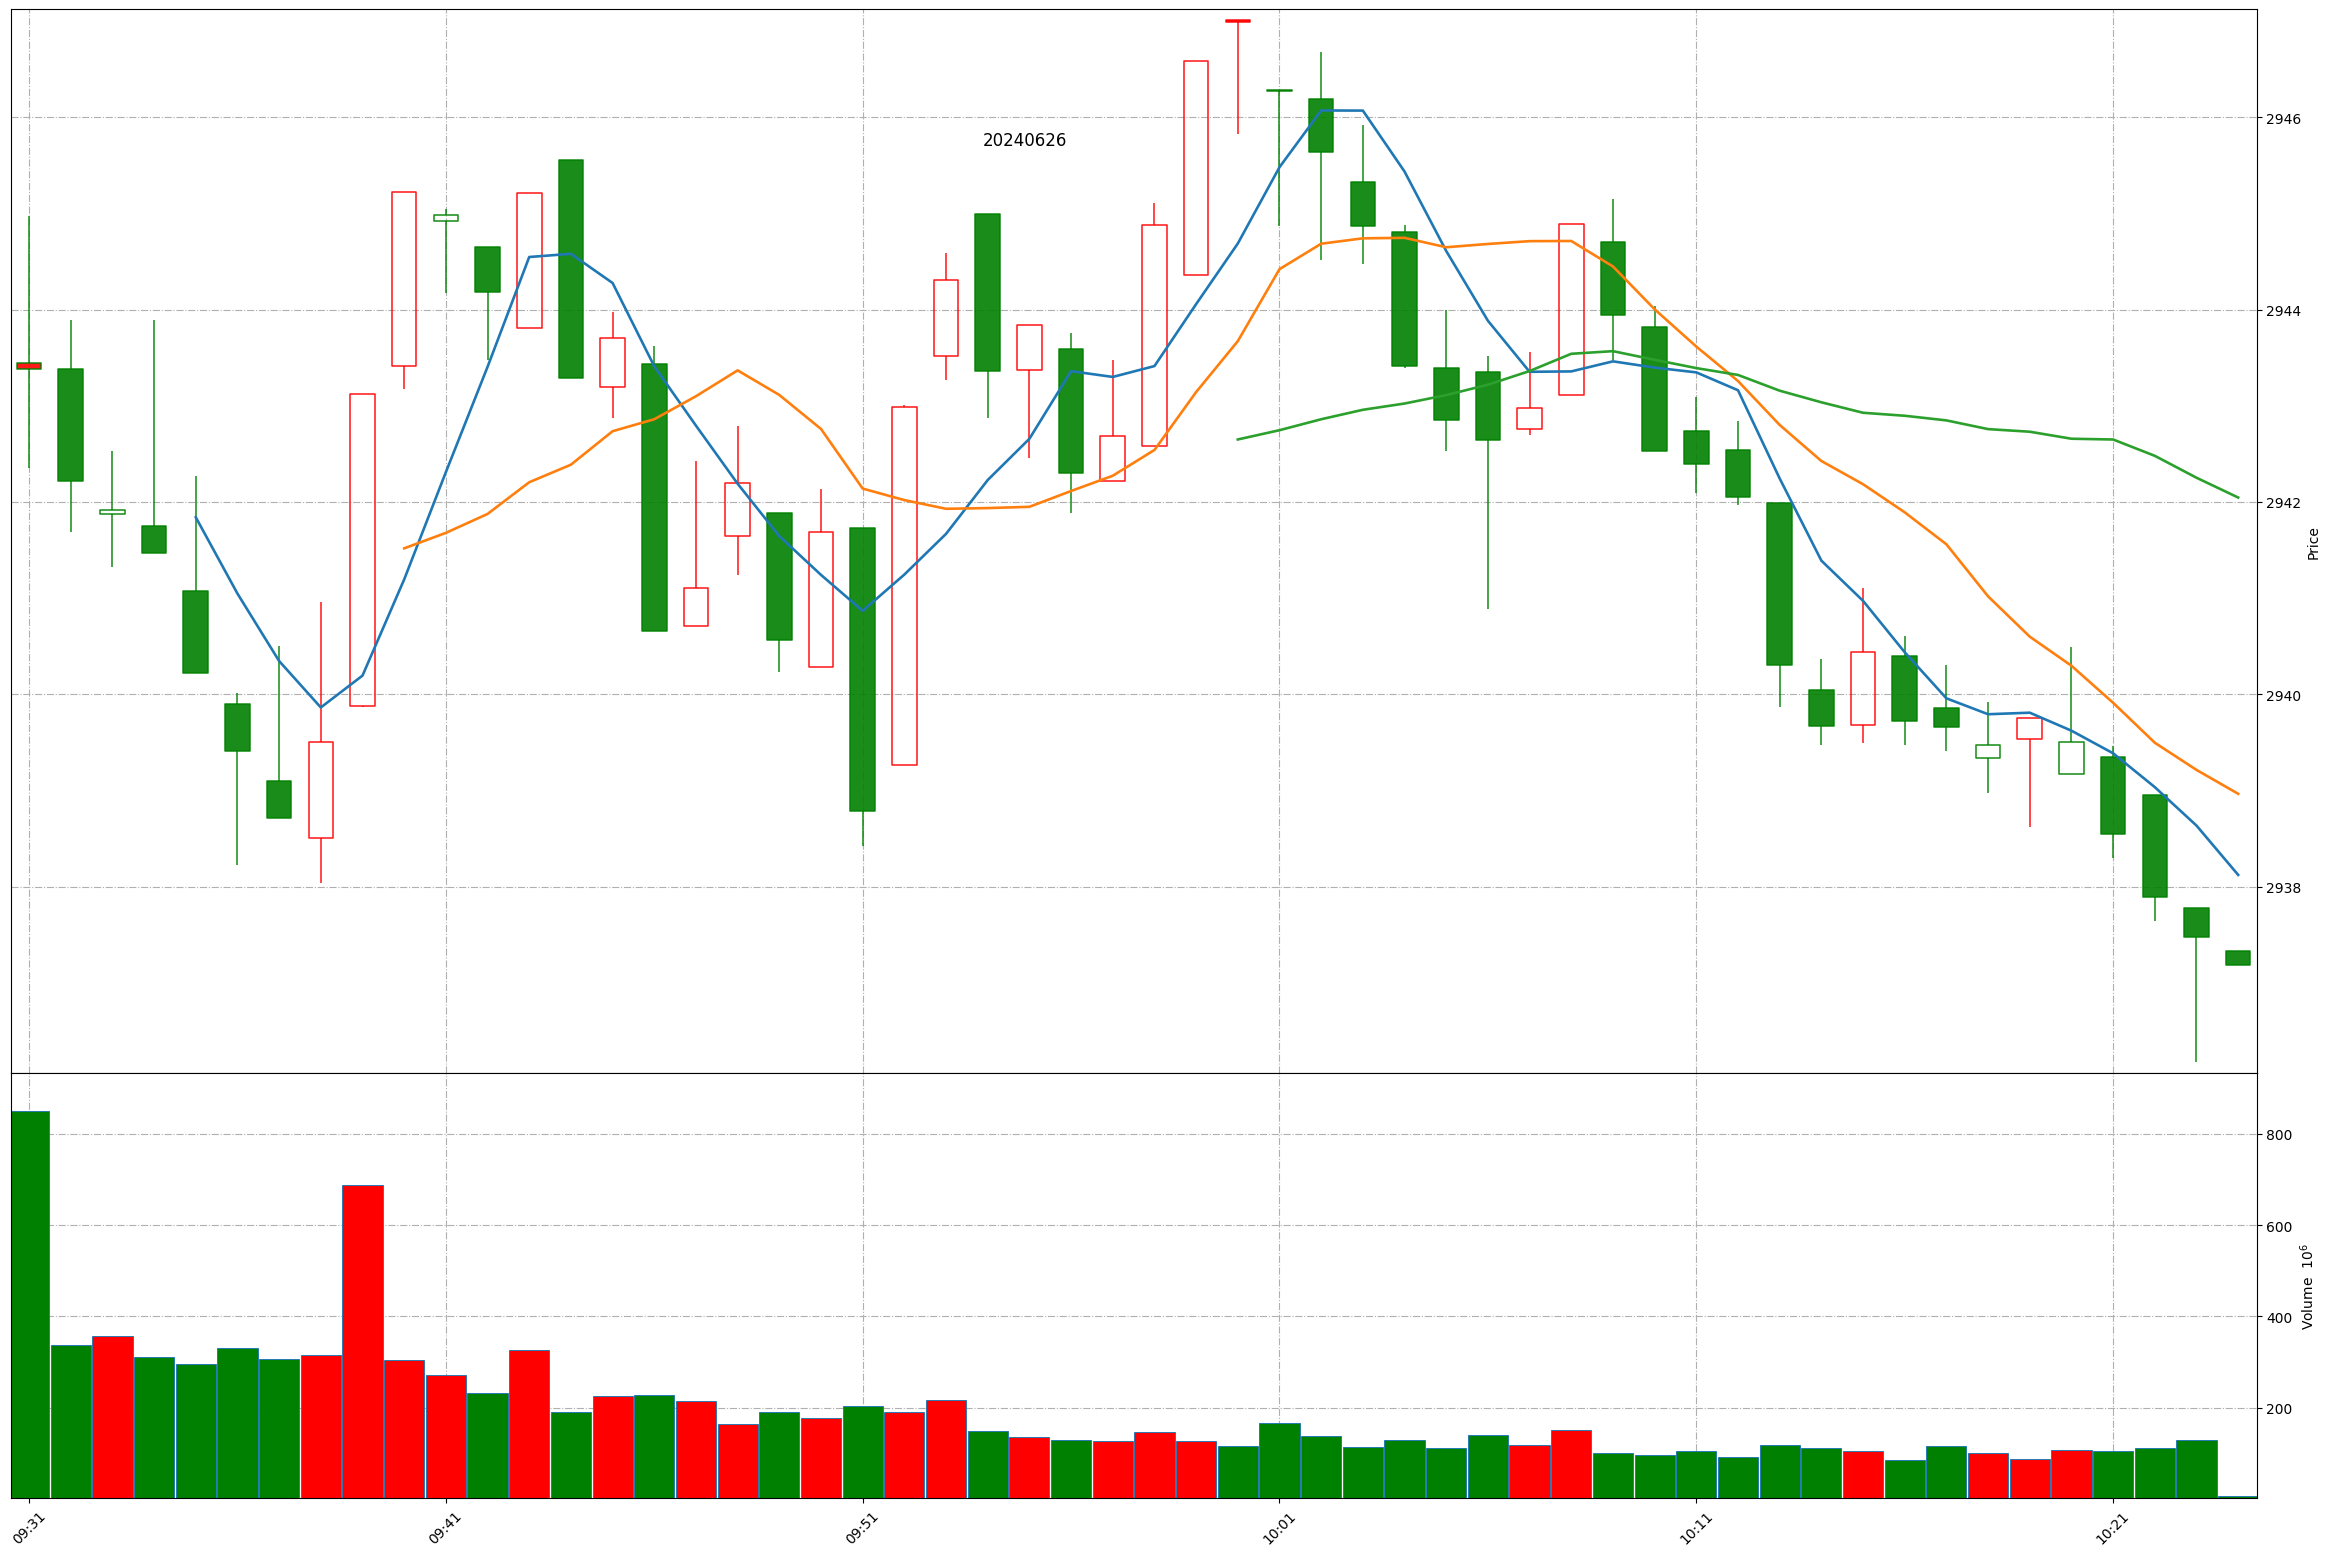
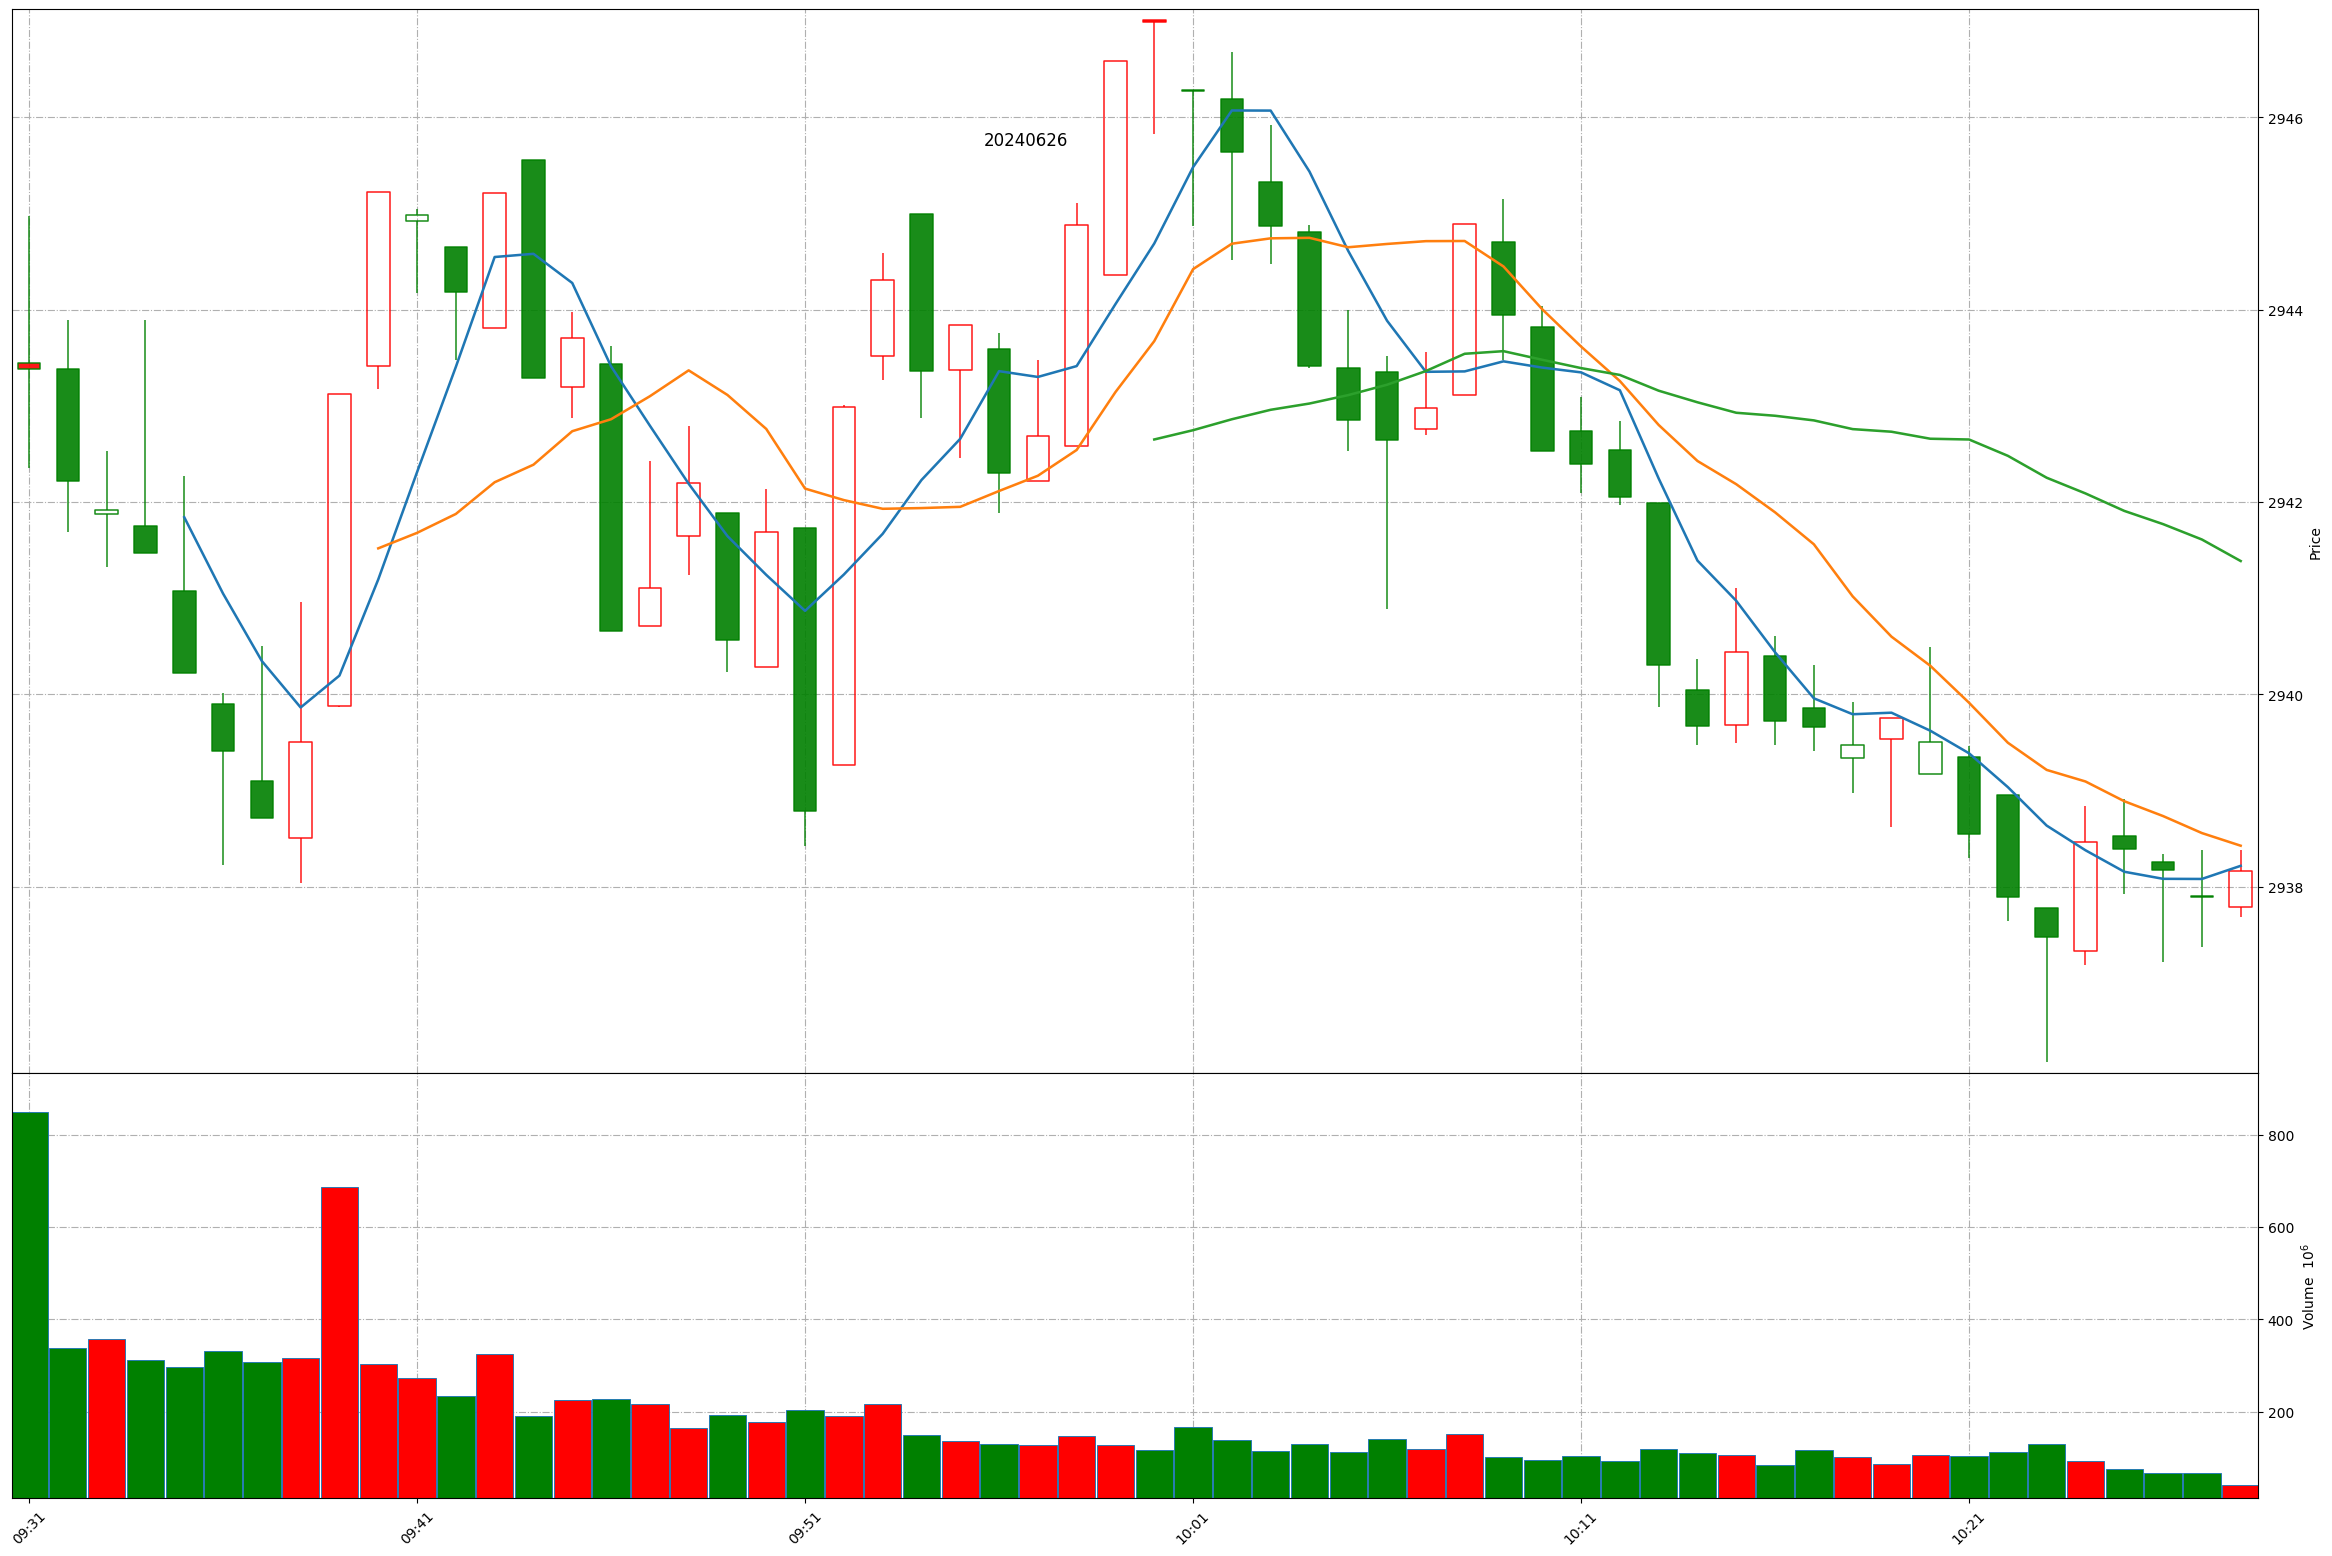
Github action update at 2024-06-26 10:27:51.

diff --git a/README.md b/README.md
@@ -1,11 +1,11 @@
 
 # Daily-A-share-market-quotes 每日 A 股指数（5min 更新）- 20240626
 
-### 上证指数 20240626 10:23
+### 上证指数 20240626 10:27
 ![](./fig/2024/6/20240626-sh000001.png)
 
-### 深证成指 20240626 10:23
+### 深证成指 20240626 10:27
 ![](./fig/2024/6/20240626-sz399001.png)
 
-### 北证50 20240626 10:23
+### 北证50 20240626 10:27
 ![](./fig/2024/6/20240626-bj899050.png)
